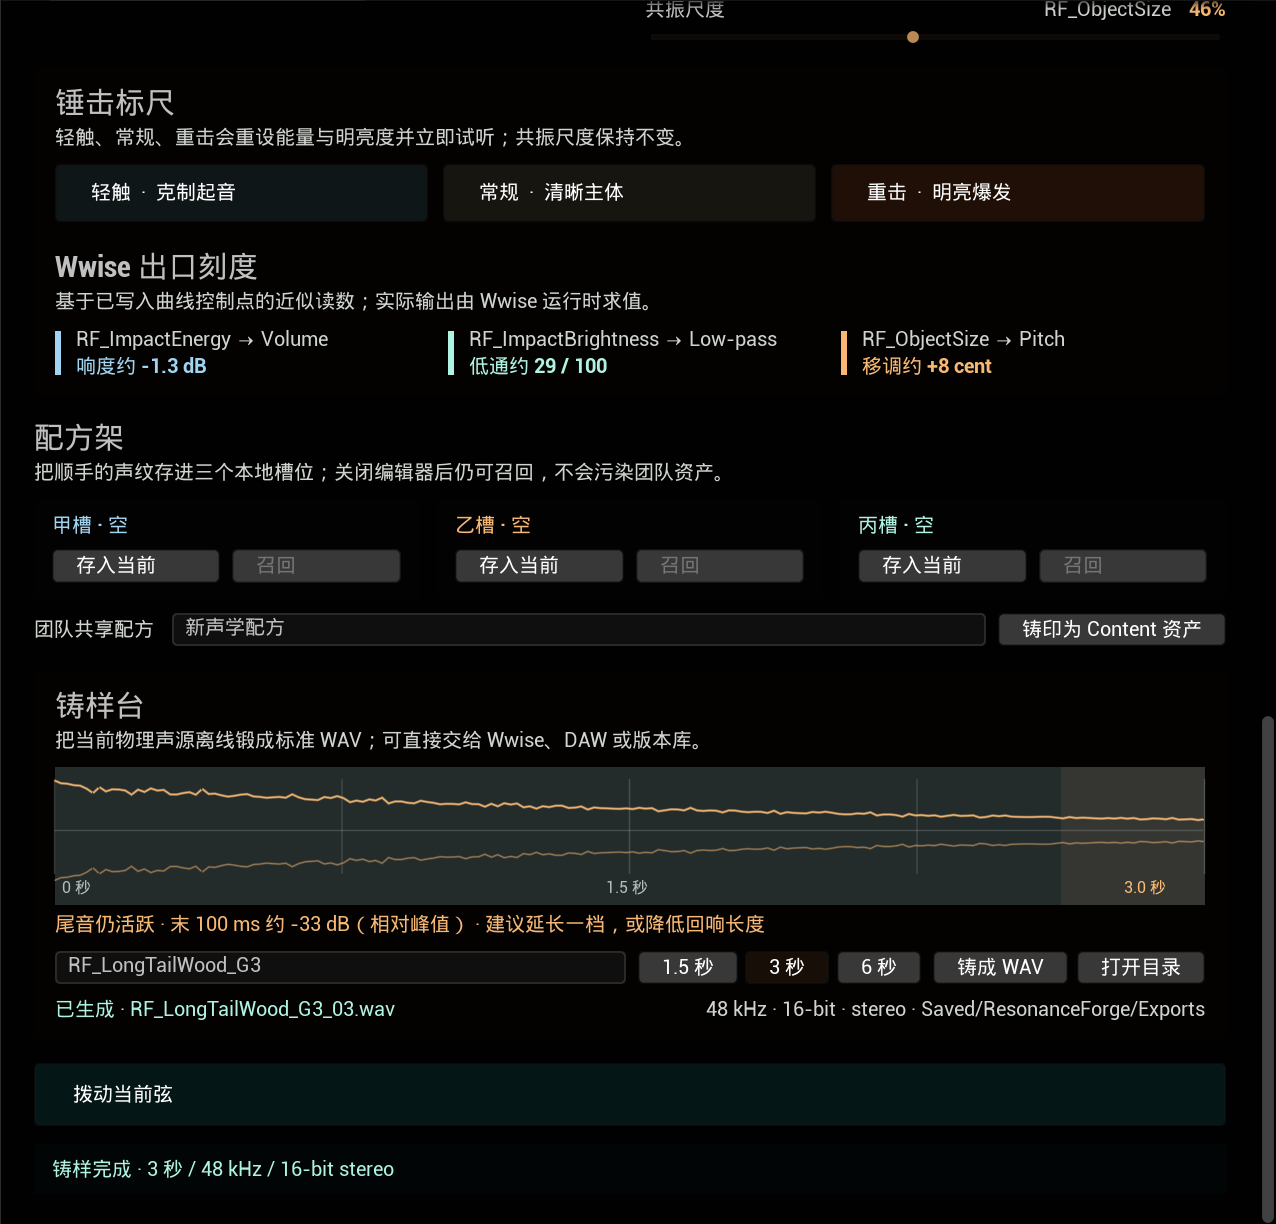
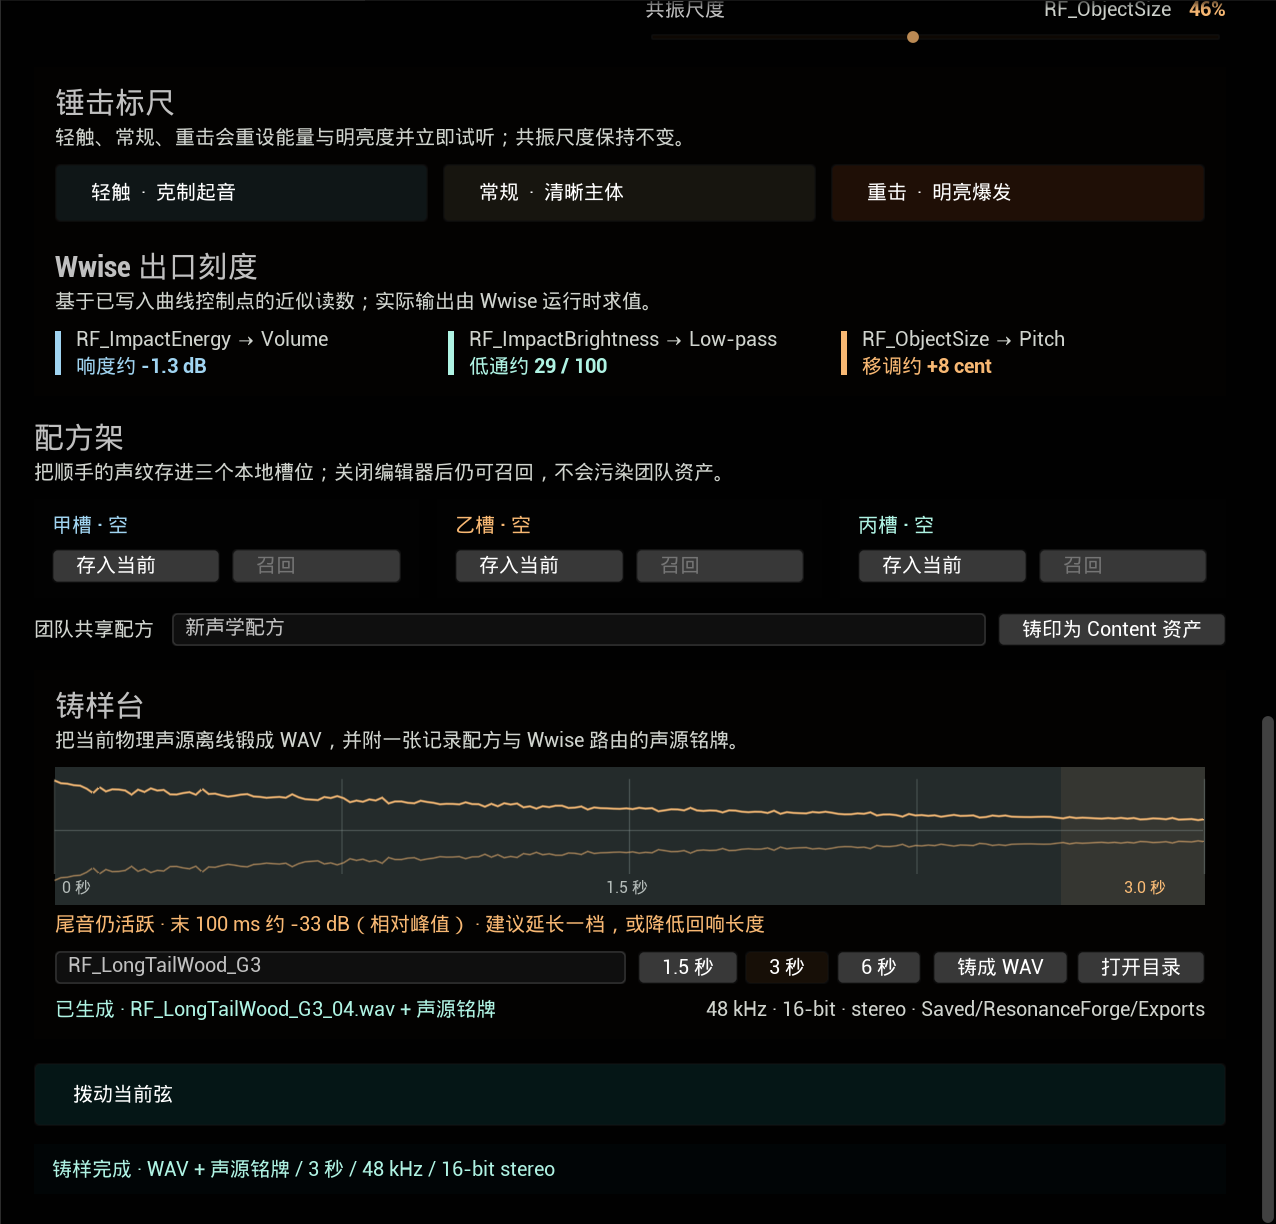
为铸样附加可追溯声源铭牌

Changed region(s): [[0.2139, 0.5899, 0.5807, 0.6209], [0.1223, 0.9314, 0.4279, 0.9624], [0.3056, 0.8072, 0.3973, 0.8382]]

diff --git a/Source/ResonanceForgeEditor/Private/ResonanceForgeEditorModule.cpp b/Source/ResonanceForgeEditor/Private/ResonanceForgeEditorModule.cpp
@@ -14,17 +14,22 @@
 #include "HAL/IConsoleManager.h"
 #include "HAL/PlatformProcess.h"
 #include "ImageUtils.h"
+#include "Interfaces/IPluginManager.h"
 #include "Engine/Selection.h"
 #include "Framework/Docking/TabManager.h"
 #include "Materials/MaterialInterface.h"
 #include "MIDIDeviceManager.h"
 #include "Misc/ConfigCacheIni.h"
 #include "Misc/CommandLine.h"
+#include "Misc/DateTime.h"
+#include "Misc/EngineVersion.h"
 #include "Misc/FileHelper.h"
 #include "Misc/PackageName.h"
 #include "Misc/Parse.h"
 #include "Misc/Paths.h"
 #include "ObjectTools.h"
+#include "Serialization/JsonSerializer.h"
+#include "Serialization/JsonWriter.h"
 #include "../../ResonanceForgeWwise/Public/ResonanceForgeImpactInstrumentActor.h"
 #include "../../ResonanceForgeWwise/Public/ResonanceForgeWwiseBridgeComponent.h"
 #include "ResonanceForgeSynthComponent.h"
@@ -59,6 +64,19 @@ namespace ResonanceForgeEditor
     {
         const float T = FMath::Clamp(Alpha, 0.0f, 1.0f);
         return T * T * (3.0f - 2.0f * T);
+    }
+
+    FString GetWwiseEventName(const FName PresetName)
+    {
+        if (PresetName == TEXT("硬木"))
+        {
+            return TEXT("Play_RF_Impact_Wood");
+        }
+        if (PresetName == TEXT("薄玻璃"))
+        {
+            return TEXT("Play_RF_Impact_Glass");
+        }
+        return TEXT("Play_RF_Impact_Steel");
     }
 
     TSharedRef<SWidget> WorkspaceTitle(const FText& Title, const FText& Detail)
@@ -1066,8 +1084,11 @@ FReply FResonanceForgeEditorModule::ExportCurrentSample()
         ResonanceForgeEditor::WaveguideDecayMin,
         ResonanceForgeEditor::WaveguideDecayMax,
         FMath::Clamp(WaveguideSustain, 0.0f, 1.0f));
+    const TArray<FResonanceMode> RenderedModes = ActiveModes.IsEmpty()
+        ? UResonanceForgeSynthComponent::GetBuiltInModes(ActivePreset)
+        : ActiveModes;
     const bool bRendered = UResonanceForgeSynthComponent::RenderOfflinePreview(
-        ActiveModes,
+        RenderedModes,
         ActiveModel,
         PreviewEnergy,
         PreviewBrightness,
@@ -1139,15 +1160,90 @@ FReply FResonanceForgeEditorModule::ExportCurrentSample()
         Pcm16.Num() * sizeof(int16),
         2,
         48000);
-    if (WaveData.IsEmpty() || !FFileHelper::SaveArrayToFile(WaveData, *ExportPath))
+    if (WaveData.IsEmpty())
     {
-        LastStatus = NSLOCTEXT("ResonanceForge", "SampleWriteFailed", "铸样完成，但 WAV 写入失败");
+        LastStatus = NSLOCTEXT("ResonanceForge", "SampleSerializeFailed", "铸样失败 · 无法序列化 WAV 数据");
+        return FReply::Handled();
+    }
+
+    const FString LabelPath = FPaths::ChangeExtension(ExportPath, TEXT("rfrecipe.json"));
+    const TSharedRef<FJsonObject> Root = MakeShared<FJsonObject>();
+    Root->SetStringField(TEXT("schema"), TEXT("resonance-forge/sample-label/v1"));
+
+    const TSharedRef<FJsonObject> Generator = MakeShared<FJsonObject>();
+    const TSharedPtr<IPlugin> Plugin = IPluginManager::Get().FindPlugin(TEXT("ResonanceForge"));
+    Generator->SetStringField(TEXT("pluginVersion"), Plugin.IsValid() ? Plugin->GetDescriptor().VersionName : TEXT("unknown"));
+    Generator->SetStringField(TEXT("unrealVersion"), FEngineVersion::Current().ToString());
+    Generator->SetStringField(TEXT("generatedAtUtc"), FDateTime::UtcNow().ToIso8601());
+    Root->SetObjectField(TEXT("generator"), Generator);
+
+    const TSharedRef<FJsonObject> Audio = MakeShared<FJsonObject>();
+    Audio->SetStringField(TEXT("file"), FPaths::GetCleanFilename(ExportPath));
+    Audio->SetNumberField(TEXT("durationSeconds"), SampleExportDurationSeconds);
+    Audio->SetNumberField(TEXT("sampleRate"), 48000);
+    Audio->SetNumberField(TEXT("channels"), 2);
+    Audio->SetNumberField(TEXT("bitDepth"), 16);
+    Audio->SetNumberField(TEXT("tailRelativeDb"), LastSampleTailDb);
+    Audio->SetBoolField(TEXT("tailSettled"), LastSampleTailDb <= -48.0f);
+    Root->SetObjectField(TEXT("audio"), Audio);
+
+    const TSharedRef<FJsonObject> Source = MakeShared<FJsonObject>();
+    Source->SetStringField(TEXT("preset"), ActivePreset.ToString());
+    Source->SetStringField(TEXT("model"), ActiveModel == EResonanceModelType::WaveguideString ? TEXT("WaveguideString") : TEXT("ModalImpact"));
+    Source->SetNumberField(TEXT("energy"), PreviewEnergy);
+    Source->SetNumberField(TEXT("brightness"), PreviewBrightness);
+    Source->SetNumberField(TEXT("objectSize"), PreviewSize);
+    Source->SetNumberField(TEXT("strikePosition"), PreviewStrikePosition);
+    Source->SetNumberField(TEXT("midiNote"), LastKeybedNote);
+    Source->SetNumberField(TEXT("velocity"), LastKeybedVelocity);
+    Root->SetObjectField(TEXT("source"), Source);
+
+    TArray<TSharedPtr<FJsonValue>> ModeValues;
+    ModeValues.Reserve(RenderedModes.Num());
+    for (const FResonanceMode& Mode : RenderedModes)
+    {
+        const TSharedRef<FJsonObject> ModeObject = MakeShared<FJsonObject>();
+        ModeObject->SetNumberField(TEXT("frequencyHz"), Mode.FrequencyHz);
+        ModeObject->SetNumberField(TEXT("gain"), Mode.Gain);
+        ModeObject->SetNumberField(TEXT("decaySeconds"), Mode.DecaySeconds);
+        ModeValues.Add(MakeShared<FJsonValueObject>(ModeObject));
+    }
+    Root->SetArrayField(TEXT("modes"), ModeValues);
+
+    const TSharedRef<FJsonObject> Waveguide = MakeShared<FJsonObject>();
+    Waveguide->SetNumberField(TEXT("sustainNormalized"), WaveguideSustain);
+    Waveguide->SetNumberField(TEXT("feedback"), StringDecay);
+    Waveguide->SetNumberField(TEXT("damping"), WaveguideDamping);
+    Waveguide->SetNumberField(TEXT("bodyCoupling"), WaveguideCoupling);
+    Root->SetObjectField(TEXT("waveguide"), Waveguide);
+
+    const TSharedRef<FJsonObject> Wwise = MakeShared<FJsonObject>();
+    Wwise->SetStringField(TEXT("event"), ResonanceForgeEditor::GetWwiseEventName(ActivePreset));
+    Wwise->SetStringField(TEXT("integration"), TEXT("metadata only; import and Wwise processing are not rendered"));
+    const TSharedRef<FJsonObject> Rtpc = MakeShared<FJsonObject>();
+    Rtpc->SetNumberField(TEXT("RF_ImpactEnergy"), PreviewEnergy * 100.0f);
+    Rtpc->SetNumberField(TEXT("RF_ImpactBrightness"), PreviewBrightness * 100.0f);
+    Rtpc->SetNumberField(TEXT("RF_ObjectSize"), PreviewSize * 100.0f);
+    Wwise->SetObjectField(TEXT("rtpc0To100"), Rtpc);
+    Root->SetObjectField(TEXT("wwise"), Wwise);
+
+    FString LabelJson;
+    const TSharedRef<TJsonWriter<>> JsonWriter = TJsonWriterFactory<>::Create(&LabelJson);
+    if (!FJsonSerializer::Serialize(Root, JsonWriter) || !FFileHelper::SaveStringToFile(LabelJson, *LabelPath, FFileHelper::EEncodingOptions::ForceUTF8WithoutBOM))
+    {
+        LastStatus = NSLOCTEXT("ResonanceForge", "SampleLabelWriteFailed", "铸样失败 · 声源铭牌无法写入，未生成孤立 WAV");
+        return FReply::Handled();
+    }
+    if (!FFileHelper::SaveArrayToFile(WaveData, *ExportPath))
+    {
+        IFileManager::Get().Delete(*LabelPath, false, true);
+        LastStatus = NSLOCTEXT("ResonanceForge", "SampleWriteFailed", "铸样失败 · WAV 无法写入，已撤回声源铭牌");
         return FReply::Handled();
     }
 
     LastSampleExportPath = FPaths::ConvertRelativePathToFull(ExportPath);
     LastStatus = FText::Format(
-        NSLOCTEXT("ResonanceForge", "SampleExported", "铸样完成 · {0} 秒 / 48 kHz / 16-bit stereo"),
+        NSLOCTEXT("ResonanceForge", "SampleExported", "铸样完成 · WAV + 声源铭牌 / {0} 秒 / 48 kHz / 16-bit stereo"),
         FText::AsNumber(SampleExportDurationSeconds));
     return FReply::Handled();
 }
@@ -1169,7 +1265,7 @@ FText FResonanceForgeEditorModule::GetSampleExportStatusText() const
         return NSLOCTEXT("ResonanceForge", "SampleNotExported", "等待铸样 · 复用当前模态、落点、弦床与演奏参数");
     }
     return FText::Format(
-        NSLOCTEXT("ResonanceForge", "SampleExportPath", "已生成 · {0}"),
+        NSLOCTEXT("ResonanceForge", "SampleExportPath", "已生成 · {0} + 声源铭牌"),
         FText::FromString(FPaths::GetCleanFilename(LastSampleExportPath)));
 }
 
@@ -1326,15 +1422,10 @@ FText FResonanceForgeEditorModule::GetResonanceText() const
 
 FText FResonanceForgeEditorModule::GetOutputRouteText() const
 {
-    const FText EventName = ActivePreset == TEXT("硬木")
-        ? FText::FromString(TEXT("Play_RF_Impact_Wood"))
-        : ActivePreset == TEXT("薄玻璃")
-            ? FText::FromString(TEXT("Play_RF_Impact_Glass"))
-            : FText::FromString(TEXT("Play_RF_Impact_Steel"));
     return FText::Format(
         NSLOCTEXT("ResonanceForge", "OutputMaterialRoute", "{0} → {1} / 3 RTPC"),
         FText::FromName(ActivePreset),
-        EventName);
+        FText::FromString(ResonanceForgeEditor::GetWwiseEventName(ActivePreset)));
 }
 
 FText FResonanceForgeEditorModule::GetPrimaryActionText() const
@@ -2035,7 +2126,7 @@ TSharedRef<SDockTab> FResonanceForgeEditorModule::SpawnWorkbench(const FSpawnTab
                         [
                             SNew(SVerticalBox)
                             + SVerticalBox::Slot().AutoHeight()
-                            [WorkspaceTitle(NSLOCTEXT("ResonanceForge", "SampleForge", "铸样台"), NSLOCTEXT("ResonanceForge", "SampleForgeDetail", "把当前物理声源离线锻成标准 WAV；可直接交给 Wwise、DAW 或版本库。"))]
+                            [WorkspaceTitle(NSLOCTEXT("ResonanceForge", "SampleForge", "铸样台"), NSLOCTEXT("ResonanceForge", "SampleForgeDetail", "把当前物理声源离线锻成 WAV，并附一张记录配方与 Wwise 路由的声源铭牌。"))]
                             + SVerticalBox::Slot().AutoHeight().Padding(0, 10, 0, 0)
                             [
                                 SNew(SResonanceDecayPrint)

diff --git a/Source/ResonanceForgeEditor/ResonanceForgeEditor.Build.cs b/Source/ResonanceForgeEditor/ResonanceForgeEditor.Build.cs
@@ -8,7 +8,7 @@ public class ResonanceForgeEditor : ModuleRules
         PrivateDependencyModuleNames.AddRange(new[]
         {
             "Core", "CoreUObject", "Engine", "UnrealEd", "LevelEditor", "Slate", "SlateCore",
-            "ToolMenus", "Projects", "InputCore", "MIDIDevice", "AssetRegistry",
+            "ToolMenus", "Projects", "InputCore", "MIDIDevice", "AssetRegistry", "Json",
             "ResonanceForgeRuntime", "ResonanceForgeWwise"
         });
     }

diff --git a/README.md b/README.md
@@ -8,7 +8,7 @@
 ![Unreal Engine 5.8](https://img.shields.io/badge/Unreal_Engine-5.8.1-0E1128?logo=unrealengine&logoColor=white)
 ![Wwise 2025.1](https://img.shields.io/badge/Wwise-2025.1-00549F)
 ![Platform](https://img.shields.io/badge/Platform-Windows_Editor-0078D4?logo=windows&logoColor=white)
-![Version](https://img.shields.io/badge/Version-0.19.0-D96B2B)
+![Version](https://img.shields.io/badge/Version-0.20.0-D96B2B)
 ![License](https://img.shields.io/badge/License-MIT-2EA44F)
 
 </div>
@@ -46,6 +46,7 @@
 - **无需硬件的试音键床**：十三根可点击、可拖奏的锤键把鼠标位置映射为 Note 与 Velocity，方便快速验证波导弦和 Wwise 发布。
 - **可交付的物理声源铸样**：复用实时 Synth 的同一套模态与波导 DSP，把当前齿列、落点、弦床和演奏参数离线渲染成标准 WAV，可直接交给 Wwise、DAW 或版本库。
 - **余响拓片**：铸样后绘制真实振幅包络，并测量最后 100 ms 相对峰值电平；尾音高于 −48 dB 时主动建议延长时长或降低回响，避免交付被生硬截断的样本。
+- **声源铭牌**：每份 WAV 同步生成版本化 `.rfrecipe.json`，记录模型、材质、模态、落点、弦床、演奏参数及 Wwise Event / RTPC 输入，让样本离开 UE 后仍带着来源。
 - **声纹炉膛**：用随模型、材质与演奏参数实时变化的声学指纹理解声音，而不是只看抽象滑杆。
 - **可编辑共振齿列**：直接选择离散模态，调整频率、响度权重和衰减时间；结果写回当前声源，并参与 A/B 与共享配方。
 - **碰撞位置塑形**：真实 `FHitResult` 落点会转换到物体局部坐标，并按模态节点重新分配各共振峰的激励能量。
@@ -147,7 +148,7 @@ flowchart LR
 10. 使用“配方架”把满意的版本存入甲、乙或丙槽，需要时一键召回到当前对象。
 11. 先用“试音键床”点击或横向拖奏；越靠下点击力度越重。有 MIDI 键盘时，再在“演奏入口”选择设备并连接，推动调制轮观察 CC1。
 12. 切换到“数字波导弦”，调节弦床中的回响长度、弦路阻尼和箱体耦合，观察声纹与听感同步变化。
-13. 在“铸样台”输入文件名并选择 1.5、3 或 6 秒，点击“铸成 WAV”；观察“余响拓片”是否提示尾音仍活跃，必要时延长一档或降低回响长度。文件会写入 `Demo/Saved/ResonanceForge/Exports`，重名时自动追加编号。
+13. 在“铸样台”输入文件名并选择 1.5、3 或 6 秒，点击“铸成 WAV”；观察“余响拓片”是否提示尾音仍活跃，必要时延长一档或降低回响长度。工具会成对写入 WAV 与 `.rfrecipe.json` 声源铭牌，重名时自动追加编号。
 14. 为满意版本输入名称，点击“铸印为 Content 资产”；当前共振齿列会写入 `UResonanceMaterialProfile::Modes`，成为团队可复用配方。
 15. 进入 PIE，观察落球碰撞并在 Wwise Profiler 中检查 RTPC。
 
@@ -156,6 +157,19 @@ flowchart LR
 “铸样台”输出 `48 kHz / 16-bit / stereo` WAV。它调用实时声源使用的同一套 DSP，不是另一份只为导出编写的近似算法；导出时会保留当前模型、共振齿列、落点、弦床、Note 与力度。输出位于工程 `Saved` 目录，默认不进入 Git，适合先在本地筛选，再按团队规则导入 Wwise 或 DAW。
 
 每次铸样还会生成一张 180 段的“余响拓片”。它从实际双声道采样提取归一化峰值包络，并以最后 100 ms 的 RMS 相对全段峰值判断尾音：低于或等于 `−48 dB` 记为已收束，否则提示延长一档或降低回响。它是剪裁风险提示，不替代响度计、听感判断或正式母带。当前版本导出的是 **UE 物理声源原始铸样**，不包含 Wwise Bus、Effect、空间化或母带处理，也不会声称已经自动导入 Wwise Authoring。
+
+WAV 旁边的 `.rfrecipe.json` 是“声源铭牌”，使用 `resonance-forge/sample-label/v1` 模式。它记录插件与 UE 版本、音频规格、尾音判断、材质与模型、全部离散模态、数字波导参数、Note / Velocity，以及当前 Wwise Event 与 0–100 RTPC 输入。例如：
+
+```json
+{
+  "schema": "resonance-forge/sample-label/v1",
+  "audio": { "file": "RF_LongTailWood_G3.wav", "sampleRate": 48000, "tailRelativeDb": -33.0 },
+  "source": { "preset": "硬木", "model": "WaveguideString", "midiNote": 55, "velocity": 0.76 },
+  "wwise": { "event": "Play_RF_Impact_Wood", "rtpc0To100": { "RF_ImpactEnergy": 76.0 } }
+}
+```
+
+铭牌使用 UTF-8 和稳定英文键，中文材质名保留原样。只有 WAV 与 JSON 都写入成功时才报告铸样完成；若 WAV 失败，已写入的铭牌会撤回，避免产生误导性的孤立交付件。当前版本尚不提供 JSON 自动回炉或 Wwise 自动导入。
 
 ### 从个人草案到团队资产
 
@@ -271,6 +285,7 @@ ResonanceForge
 | 无硬件演奏 | 试音键床 Note / Velocity 进入与外接 MIDI 相同的声源与 Wwise 触发链 |
 | 离线物理声源铸样 | 实际生成 3.000 秒、48 kHz、16-bit、双声道 RIFF/WAVE；复用实时 Synth DSP |
 | 余响截断提示 | 长尾木弦 3 秒铸样末 100 ms 实测约 −33 dB（相对峰值），正确提示延长时长或降低回响 |
+| 声源铭牌 | 实际生成 `sample-label/v1` UTF-8 JSON；WAV 规格、6 个硬木模态、波导参数、Note / Velocity、木材 Event 与 3 个 RTPC 输入均通过字段复核 |
 | Wwise 生成资源检查 | 通过 |
 | Wwise 材质路由与 RTPC 映射 | 3 个 Event、9 份 WAV、每个 Container 3 条曲线与 Windows SoundBank 通过 |
 | 基础地图磁盘重载 | 3 个落球 + 1 个波导弦通过 |
@@ -284,6 +299,7 @@ ResonanceForge
 - 波导模型采用经典 Karplus–Strong 结构，不等同于 Pianoteq 一类完整钢琴物理建模系统。
 - 尚未模拟琴槌接触、踏板、弦间耦合、音板传播和复杂辐射体。
 - “铸样台”输出 UE 原始物理声源，不渲染 Wwise Bus、Effect、空间化或响度母带链。
+- 声源铭牌当前用于跨工具交接与追溯，尚不能一键回炉成 UE 配方，也不会自动修改 Wwise 工程。
 - Wwise SDK、Unreal Integration 与 Fab 商业素材必须由使用者自行安装。
 
 ## 文档

diff --git a/docs/演示与截图指南.md b/docs/演示与截图指南.md
@@ -16,7 +16,7 @@
 12. 分别调整回响长度、弦路阻尼和箱体耦合，展示声纹轮廓实时变化；把其中一版钉为参考后进行 A/B 试听。
 13. 没有 MIDI 硬件时，直接点击“试音键床”的 G 锤键，并从上到下比较轻重力度；横向拖过数根锤键展示连续演奏。
 14. 有 MIDI 键盘时，在“演奏入口”刷新并连接设备；演奏一个音符并推动调制轮，展示 Note、Velocity 与 CC1 实时状态。
-15. 在“铸样台”输入 `RF_LongTailWood_G3`，选择 3 秒并点击“铸成 WAV”；指出“余响拓片”来自真实导出采样。这份长尾木弦末段仍活跃，工具会建议延长一档或降低回响，而不是把截断风险藏起来。状态栏显示实际文件名后可打开目录，继续交给 Wwise 或 DAW。
+15. 在“铸样台”输入 `RF_LongTailWood_G3`，选择 3 秒并点击“铸成 WAV”；指出“余响拓片”来自真实导出采样。这份长尾木弦末段仍活跃，工具会建议延长一档或降低回响，而不是把截断风险藏起来。状态栏显示 WAV 与声源铭牌均已生成后，可打开目录查看同名 `.rfrecipe.json`。
 16. 选择数字波导弦，展示面板读取“长尾木弦”；Content 浏览器定位随仓库生成的 `DA_RF_LongTailWoodString`。也可以另存一个中文命名变体演示铸印流程。
 17. 点击 PIE：三颗球从不同高度落下，撞击时分别出现蓝、橙、青反馈光。
 18. 保持工作台可见，指出最近一次撞击会把落点、能量和明亮度回传；划线规出现青色落点余辉，模态短齿随能量衰减。
@@ -96,6 +96,7 @@
 - 用于说明调音结果不仅能在面板里试听，也能变成标准音频文件进入 Wwise、DAW 或团队评审。
 - 输出是 UE 物理声源的原始铸样，不包含 Wwise Bus、Effect 或母带处理；不要把本地导出状态描述成 Wwise 自动导入证据。
 - `−48 dB` 阈值只是尾音剪裁提示，不是响度合格线；最终仍需听音并按项目规范处理。
+- 若展示文件目录，让同名 WAV 与 `.rfrecipe.json` 同时出现；铭牌是配方交接数据，不要描述成已自动导入 Wwise。
 
 实际提交作品集时保留 3～4 张即可：主视觉、插件全貌或 A/B 声纹、场景联动、Wwise 参数证据。无需为这个工具单独录制视频。
 
@@ -125,7 +126,7 @@ docs/images/resonance-forge-workbench-details.png
 docs/images/resonance-forge-mode-rack.png
 ```
 
-主图之后会单独截取试音键床，离线铸成一份 3 秒 WAV，再保留数字波导、配方架与“已生成”状态，最后切到硬木模态撞击体并调整一根共振齿。全部来自真实 Slate 控件状态，不需要 Computer Use，也不会伪造 MIDI 设备或 Wwise Profiler 数据。自动铸样只写入本机 `Saved/ResonanceForge/Exports`，不会冒充 Wwise 导入；硬件 MIDI 与 Wwise Profiler 证据仍应在设备实际连接时单独截图。
+主图之后会单独截取试音键床，离线铸成一份 3 秒 WAV 与声源铭牌，再保留数字波导、配方架与“已生成”状态，最后切到硬木模态撞击体并调整一根共振齿。全部来自真实 Slate 控件状态，不需要 Computer Use，也不会伪造 MIDI 设备或 Wwise Profiler 数据。自动铸样只写入本机 `Saved/ResonanceForge/Exports`，不会冒充 Wwise 导入；硬件 MIDI 与 Wwise Profiler 证据仍应在设备实际连接时单独截图。
 
 ## 试听交互
 
@@ -136,7 +137,7 @@ docs/images/resonance-forge-mode-rack.png
 - 每次触发记录快照；工作台优先读取 PIE 世界中最近撞击的共振体，并用约五秒的能量余辉显示落点和模态响应。
 - 试音键床横向映射 C3–C4，纵向映射力度；按住鼠标横向拖奏时，每进入一根新锤键触发一次 Note。
 - 点击锤击标尺：直接写入该手势的能量与明亮度并触发试听，共振尺度保持当前值。
-- 点击“铸成 WAV”：用当前实时 Synth 的同一套 DSP 离线渲染，重名时追加编号而不覆盖旧样本；“打开目录”只在用户明确点击时执行。
+- 点击“铸成 WAV”：用当前实时 Synth 的同一套 DSP 离线渲染，同时写入版本化声源铭牌；重名时追加编号而不覆盖旧样本。“打开目录”只在用户明确点击时执行。
 - 铸样完成后，“余响拓片”按 180 段显示真实峰值包络，并用最后 100 ms RMS 相对全段峰值判断尾音是否已经收束。
 
 这种交互避免在连续拖动时堆叠大量撞击或波导复音，同时保留参数变化的即时视觉反馈。

diff --git a/docs/测试素材说明.md b/docs/测试素材说明.md
@@ -41,6 +41,8 @@ Unreal 端的 `generate_visual_assets.py` 会自动导入贴图、配置 sRGB/Ma
 - 输出格式固定为 `48 kHz / 16-bit / stereo WAV`，时长可选 1.5、3 或 6 秒；重名自动追加编号，避免覆盖试听版本。
 - 当前模型、共振齿列、敲击位置、弦床、Note 和力度都会进入渲染。
 - 插件从每次真实铸样提取 180 段归一化峰值包络，并测量末 100 ms RMS 相对全段峰值；高于 `−48 dB` 时提示潜在尾音截断。
+- 每份 WAV 同步生成 `.rfrecipe.json` 声源铭牌，模式标识为 `resonance-forge/sample-label/v1`；记录生成器版本、音频规格、全部模态、波导参数、演奏参数及 Wwise 路由语义。
+- WAV 与铭牌按同一基础名配对。只有两者都写入成功才报告完成；WAV 写入失败时会撤回先生成的铭牌。
 - 该目录属于本机派生结果并被 Git 忽略。需要作为正式测试素材发布时，应人工筛选、重命名并补充用途说明后再移动到受版本控制的目录。
 - 这是 UE 原始物理声源，不包含 Wwise Bus、Effect、空间化或母带处理，也不会自动导入 Wwise 工程。
 
